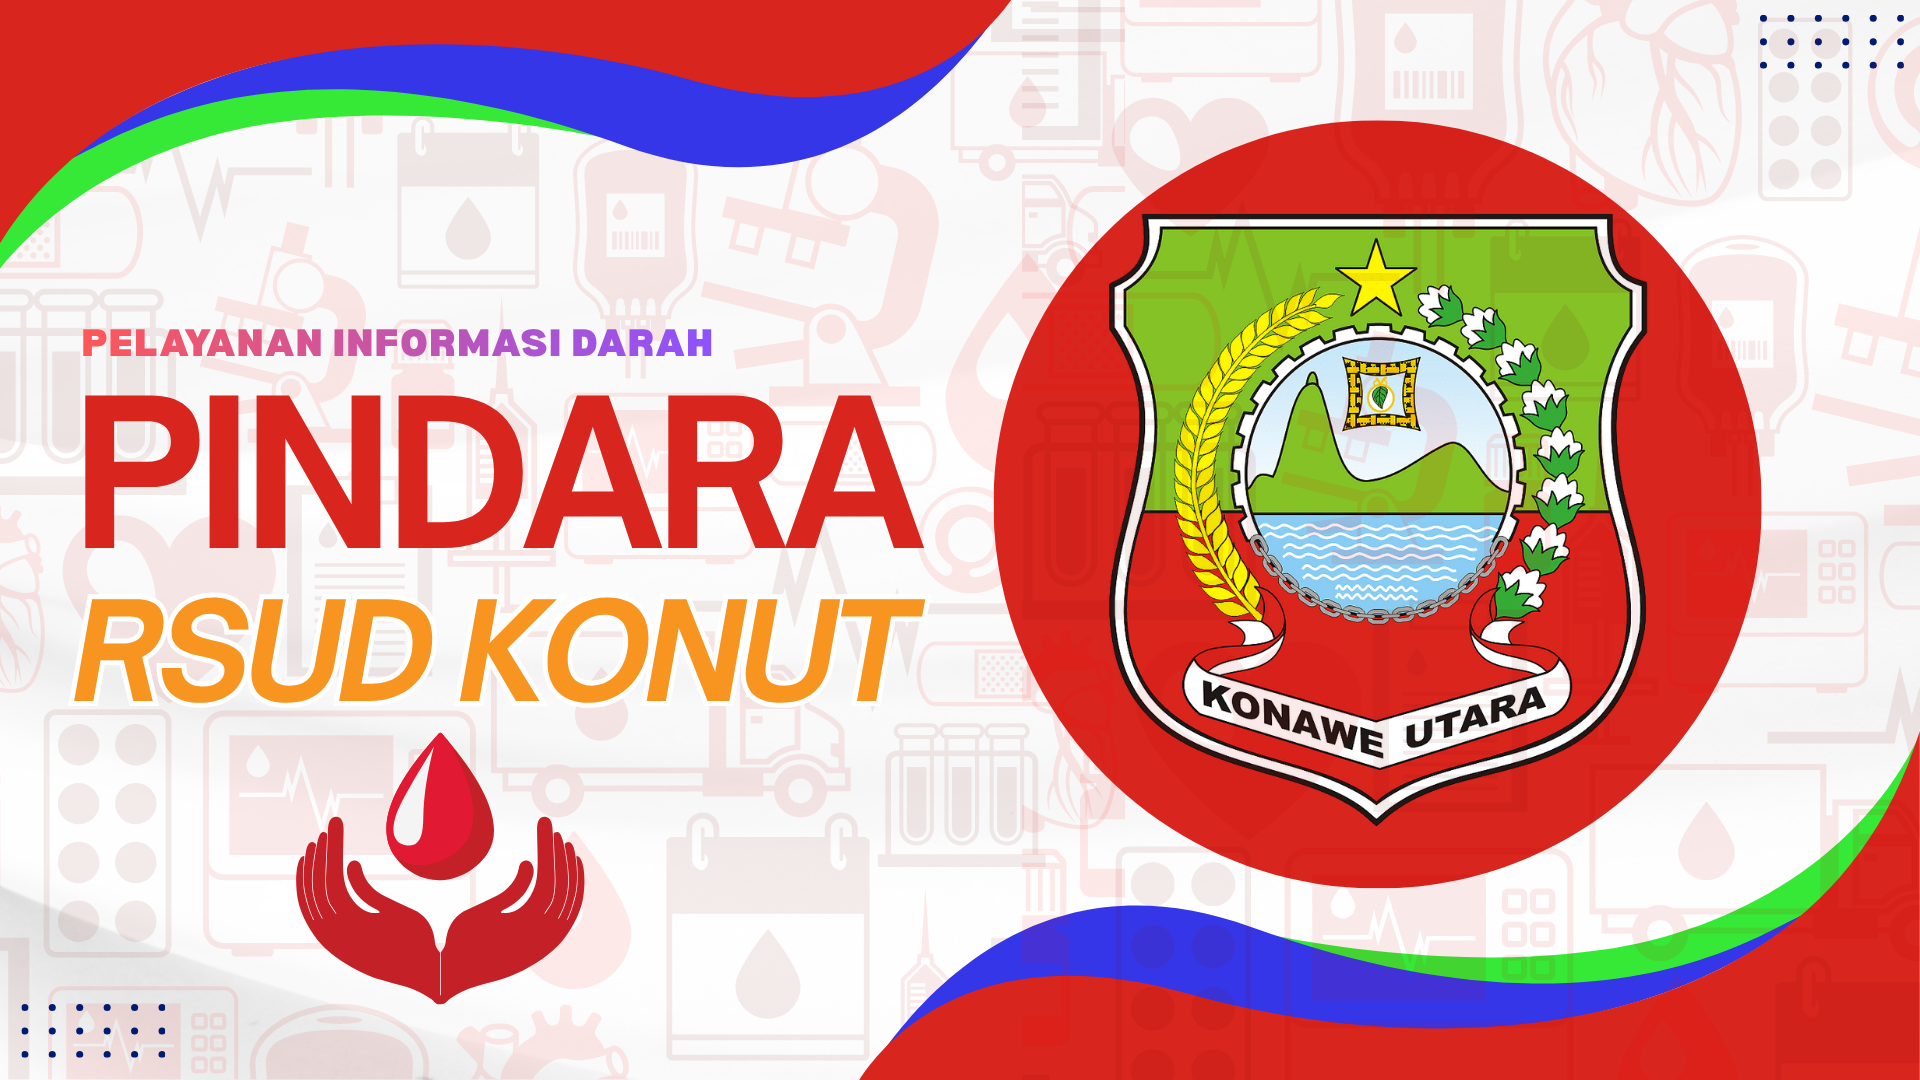
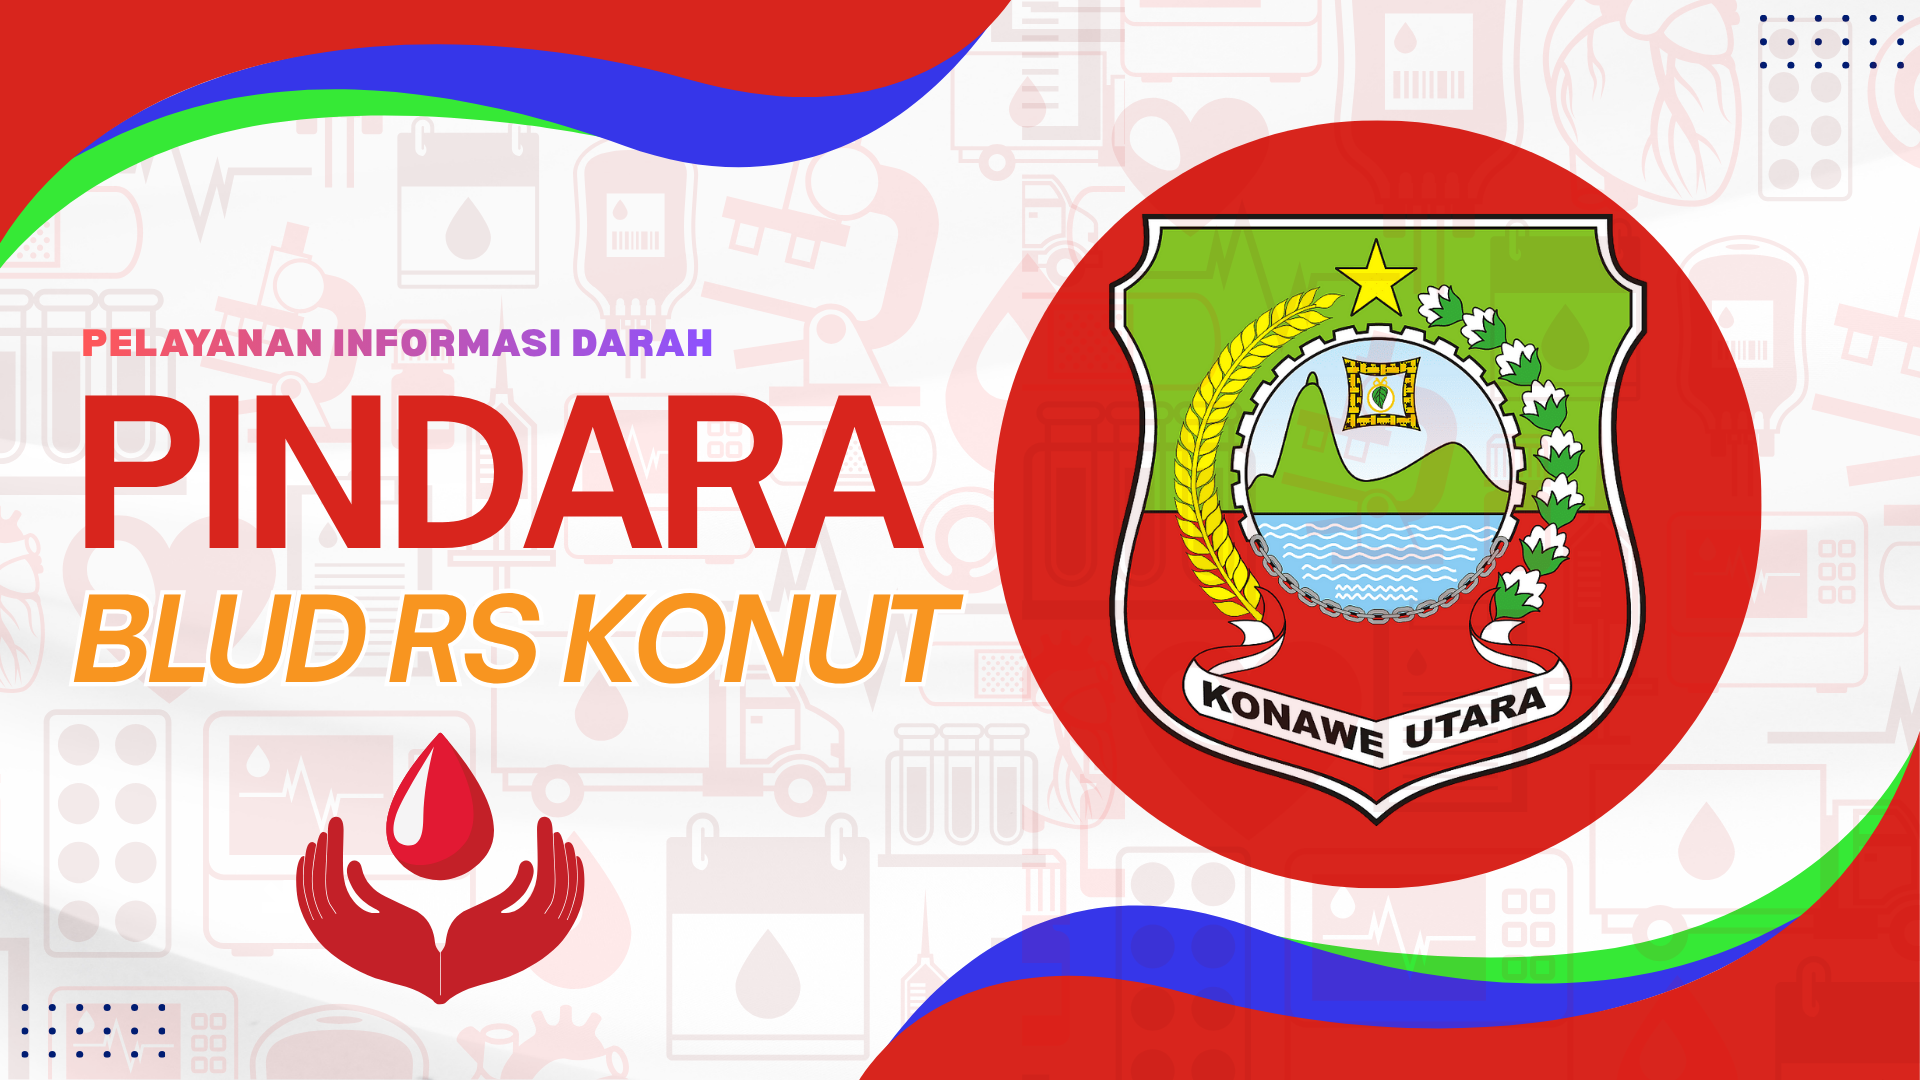
update form

Changed region(s): [[0.0312, 0.55, 0.5, 0.6722]]

diff --git a/admin/src/views/darah/permintaan_darah.vue b/admin/src/views/darah/permintaan_darah.vue
@@ -282,10 +282,23 @@
                             </div>
                         </div>
 
-                        <span class="h_lable">Jumlah (Kantong)</span>
-                        <q-input v-model.number="form.jumlah_kantong" type="number" outlined square :dense="true"
-                            class="bg-white margin_btn" required />
 
+
+
+
+                        <div class="row q-col-gutter-md">
+                            <div class="col-12 col-md-6">
+                                <span class="h_lable">Jumlah (Kantong)</span>
+                                <q-input v-model.number="form.jumlah_kantong" type="number" outlined square
+                                    :dense="true" class="bg-white margin_btn" required />
+                            </div>
+                            <div class="col-12 col-md-6">
+                                <span class="h_lable">Jumlah (cc)</span>
+                                <q-input v-model.number="form.jumlah_cc" type="number" outlined square :dense="true"
+                                    class="bg-white margin_btn" required />
+                            </div>
+                        </div>
+                        
                         <div class="row q-col-gutter-md">
                             <div class="col-12 col-md-6">
                                 <span class="h_lable">Tanggal Permintaan</span>
@@ -726,26 +739,41 @@
                         </div>
 
                         <div class="row q-col-gutter-md">
-                            <div class="col-12 col-md-4">
+                            <div class="col-12 col-md-6">
                                 <span class="h_lable">Golongan Darah Hasil</span>
                                 <q-select v-model="periksa_form.golongan_darah_hasil" :options="['A', 'B', 'O', 'AB']"
                                     outlined dense class="bg-white" />
                             </div>
-                            <div class="col-12 col-md-4">
+                            <div class="col-12 col-md-6">
                                 <span class="h_lable">Rhesus Hasil</span>
                                 <q-select v-model="periksa_form.rhesus_hasil" :options="['+', '-']" outlined dense
                                     class="bg-white" />
                             </div>
-                            <div class="col-12 col-md-4">
+                        </div>
+                        <div class="row q-col-gutter-md">
+                            <div class="col-12 col-md-6">
                                 <span class="h_lable">Jumlah Diberikan (kantong)</span>
                                 <q-input v-model.number="periksa_form.jumlah_darah_diberikan" type="number" outlined
                                     dense class="bg-white" />
                             </div>
+                            <div class="col-12 col-md-6">
+                                <span class="h_lable">Jumlah Diberikan (cc)</span>
+                                <q-input v-model.number="periksa_form.jumlah_darah_diberikan_cc" type="number" outlined
+                                    dense class="bg-white" />
+                            </div>
                         </div>
 
-                        <span class="h_lable">Nomor Kantong</span>
-                        <q-input v-model="periksa_form.nomor_kantong" outlined dense class="bg-white" />
-
+                        <div class="row q-col-gutter-md">
+                            <div class="col-12 col-md-6">
+                                <span class="h_lable">Nomor Kantong</span>
+                                <q-input v-model="periksa_form.nomor_kantong" outlined dense class="bg-white" />
+                            </div>
+                            <div class="col-12 col-md-6">
+                                <span class="h_lable">Tanggal Kadaluarsa</span>
+                                <q-input v-model="periksa_form.exp" type="date" outlined square :dense="true"
+                                    class="bg-white margin_btn" required />
+                            </div>
+                        </div>
                         <div class="row q-col-gutter-md">
                             <div class="col-12 col-md-6">
                                 <span class="h_lable">Petugas Pengeluar</span>

diff --git a/admin/src/views/informasi/jadwal_donor.vue b/admin/src/views/informasi/jadwal_donor.vue
@@ -159,8 +159,8 @@
                         <q-input v-model="form.keterangan" type="textarea" outlined square dense
                             class="bg-white margin_btn" />
 
-                        <span class="h_lable">Jumlah Terdaftar (opsional)</span>
-                        <q-input v-model="form.jumlah_terdaftar" type="number" outlined square dense
+                        <span class="h_lable">Kuota Pendonor</span>
+                        <q-input v-model="form.jumlah_terdaftar" type="number" outlined square dense required
                             class="bg-white margin_btn" />
 
                         <span class="h_lable">Poster (opsional)</span>

diff --git a/admin/src/views/auth/login.vue b/admin/src/views/auth/login.vue
@@ -116,7 +116,7 @@
             <br>
             <hr>
             <div class="transDarah">
-              <span class="h_fotter_titleform">Copyright : Rumah Sakit Umum Daerah Kab. Konawe Utara</span>
+              <span class="h_fotter_titleform">Copyright : BLUD RS Konawe Utara</span>
             </div>
         </div>
       </div>
